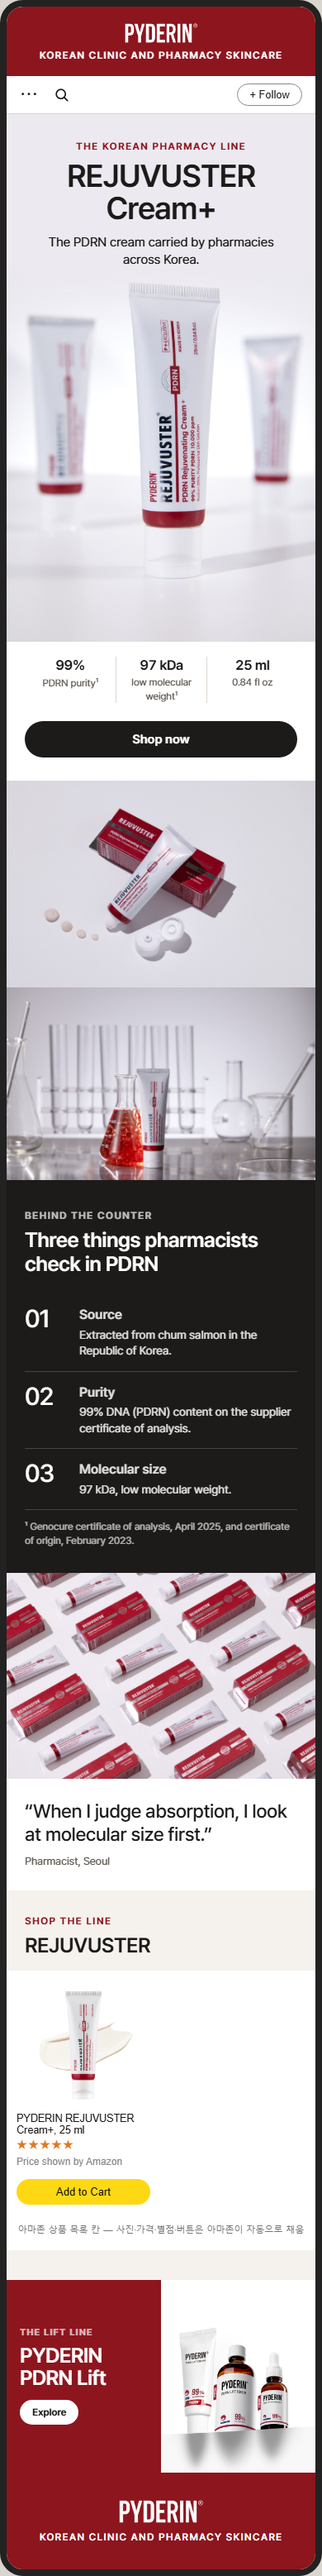
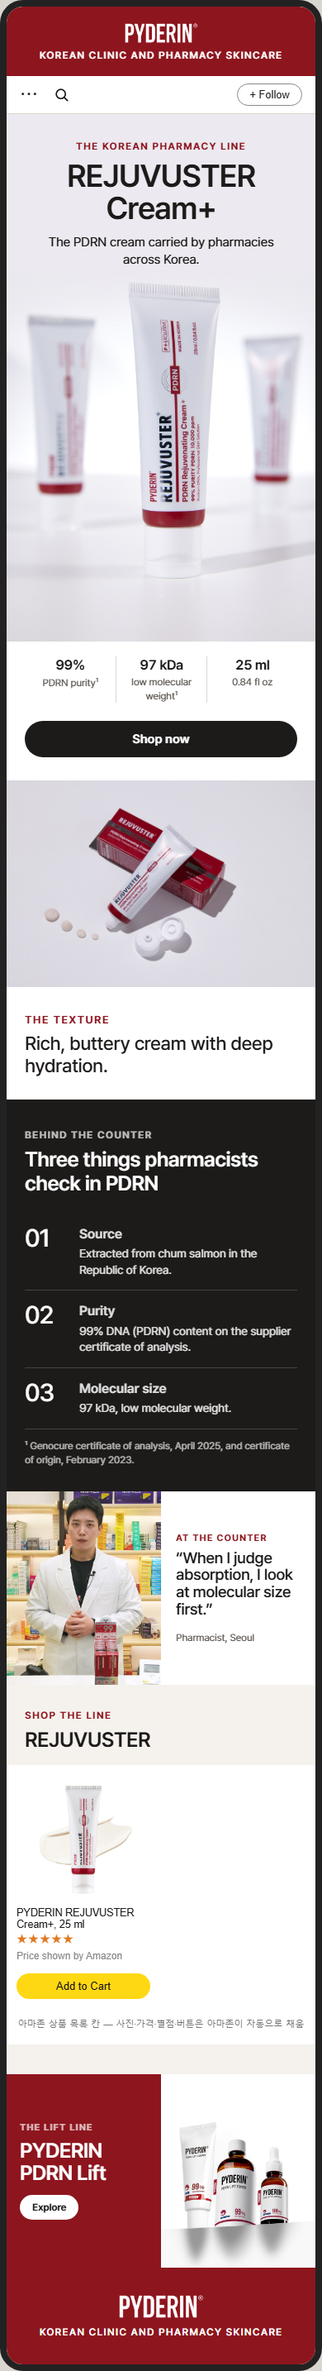
카테고리 페이지: 뜻이 맞는 칸에만 사진, 끼워 넣은 사진 제거

diff --git a/review/index.html b/review/index.html
@@ -108,42 +108,41 @@
 <tr><td>12-6</td><td class="pos">02 앰플</td><td class="ko">집중 단계. 가벼운 PDRN 세럼.</td><td class="en">The concentrated step. A lightweight PDRN serum.</td><td class="src">미국 상품 페이지</td><td class="ask">앰플 설명으로 맞는지 (&quot;가벼운&quot; 제형 표현 포함)</td><td class="box"></td><td class="box"></td></tr>
 <tr><td>12-7</td><td class="pos">03 크림</td><td class="ko">대표 탄력 크림.</td><td class="en">The signature firming cream.</td><td class="src">사장님 지정: 메인 SKU</td><td class="ask"></td><td class="box"></td><td class="box"></td></tr>
 <tr><td>12-8</td><td class="pos">주 1회 마스크</td><td class="ko">주 1회 시트 마스크. 한 상자 5매.</td><td class="en">The weekly sheet mask. Five sheets per box.</td><td class="src">미국 상품 페이지(43ml × 5)</td><td class="ask">사용 주기 주 1회가 맞는지</td><td class="box"></td><td class="box"></td></tr>
-<tr><td>12-9</td><td class="pos">큰 숫자 칸</td><td class="ko">리프트 크림 속 · 20,000ppm · PDRN 리프트 크림 한 개마다 들어 있는 연어 DNA PDRN.</td><td class="en">INSIDE THE LIFT CREAM · 20,000 ppm of salmon DNA PDRN in every tube of PDRN Lift Cream.</td><td class="src">미국 상품 페이지 제목</td><td class="ask">2-4번과 같은 확인</td><td class="box"></td><td class="box"></td></tr>
-<tr><td>12-10</td><td class="pos">제형 사진 칸</td><td class="ko">제형 · PDRN 리프트 토너, 병에서 덜어낸 그대로.</td><td class="en">THE TEXTURE · PDRN Lift Toner, out of the bottle.</td><td class="src">NAS 디자인팀 토너 제형 촬영본</td><td class="ask">사진이 현재 판매 중인 토너의 실제 제형이 맞는지</td><td class="box"></td><td class="box"></td></tr>
-<tr><td>12-11</td><td class="pos">모델 사진 칸</td><td class="ko">루틴 · 네 단계. 하나의 루틴.</td><td class="en">THE ROUTINE · Four steps. One routine.</td><td class="src">NAS 디자인팀 이미지소스(구매한 스톡 사진)</td><td class="ask">스톡 사진의 사용 범위에 미국 아마존이 들어가는지</td><td class="box"></td><td class="box"></td></tr>
-<tr><td>12-12</td><td class="pos">상품 목록 제목</td><td class="ko">라인 상품 · PDRN 리프트</td><td class="en">SHOP THE LINE · PDRN Lift</td><td class="src"></td><td class="ask"></td><td class="box"></td><td class="box"></td></tr>
-<tr><td>12-13</td><td class="pos">아래 이동 칸</td><td class="ko">한국 약국 라인 · 리쥬부스터 크림+ · 리쥬부스터 보기</td><td class="en">THE KOREAN PHARMACY LINE · REJUVUSTER Cream+ · Explore REJUVUSTER</td><td class="src">코스알엑스 라인 페이지 방식</td><td class="ask"></td><td class="box"></td><td class="box"></td></tr>
+<tr><td>12-9</td><td class="pos">큰 숫자 칸</td><td class="ko">대표 제품 PDRN 리프트 크림 · 20,000ppm · 한 개마다 들어 있는 연어 DNA PDRN.</td><td class="en">THE SIGNATURE: PDRN LIFT CREAM · 20,000 ppm of salmon DNA PDRN in every tube.</td><td class="src">미국 상품 페이지 제목</td><td class="ask">2-4번과 같은 확인</td><td class="box"></td><td class="box"></td></tr>
+<tr><td>12-10</td><td class="pos">제형 사진 칸</td><td class="ko">PDRN 리프트 토너 · 물처럼 마무리되는 젤 제형.</td><td class="en">PDRN LIFT TONER · Gel formula with a watery finish.</td><td class="src">미국 토너 상품 페이지 4번째 이미지의 문구와 사진</td><td class="ask"></td><td class="box"></td><td class="box"></td></tr>
+<tr><td>12-11</td><td class="pos">상품 목록 제목</td><td class="ko">라인 상품 · PDRN 리프트</td><td class="en">SHOP THE LINE · PDRN Lift</td><td class="src"></td><td class="ask"></td><td class="box"></td><td class="box"></td></tr>
+<tr><td>12-12</td><td class="pos">아래 이동 칸</td><td class="ko">한국 약국 라인 · 리쥬부스터 크림+ · 리쥬부스터 보기</td><td class="en">THE KOREAN PHARMACY LINE · REJUVUSTER Cream+ · Explore REJUVUSTER</td><td class="src">코스알엑스 라인 페이지 방식</td><td class="ask"></td><td class="box"></td><td class="box"></td></tr>
 </table></div></div>
 <div class="blk"><div><h2>13. REJUVUSTER 페이지 (약국 라인)</h2><img src="sec/s13.png" alt=""></div><div class="scroll"><table><tr><th>번호</th><th>위치</th><th>국문 원문</th><th>영문 (가안)</th><th>근거·출처</th><th>확인 요청 사항</th><th>상품기획팀 확인</th><th>해외영업팀 영문 검수</th></tr>
 <tr><td>13-1</td><td class="pos">꼬리표 · 제목</td><td class="ko">한국 약국 라인 · 리쥬부스터 크림+</td><td class="en">THE KOREAN PHARMACY LINE · REJUVUSTER Cream+</td><td class="src">사장님 확인(11/11): 리쥬부스터는 약국 전용</td><td class="ask">미국 약국 판매로 오해되지 않게 &#x27;Korean&#x27;을 붙였습니다. 표현이 괜찮은지</td><td class="box"></td><td class="box"></td></tr>
 <tr><td>13-2</td><td class="pos">한 문장</td><td class="ko">한국 전역의 약국에서 취급하는 PDRN 크림.</td><td class="en">The PDRN cream carried by pharmacies across Korea.</td><td class="src">데일리팜 2026-07-22</td><td class="ask">&quot;전역&quot; 표현이 맞는지</td><td class="box"></td><td class="box"></td></tr>
 <tr><td>13-3</td><td class="pos">수치 3개</td><td class="ko">PDRN 순도 99% · 97kDa 저분자 · 25ml</td><td class="en">99% PDRN purity · 97 kDa low molecular weight · 25 ml / 0.84 fl oz</td><td class="src">제노큐어 시험성적서, 미국 상품 페이지</td><td class="ask">리쥬부스터 크림+ 원료에도 99%·97kDa가 해당하는지, 용량 표기</td><td class="box"></td><td class="box"></td></tr>
-<tr><td>13-4</td><td class="pos">소제목</td><td class="ko">카운터 뒤에서 · 약사가 PDRN에서 확인하는 세 가지</td><td class="en">BEHIND THE COUNTER · Three things pharmacists check in PDRN</td><td class="src">약사 인터뷰(베리뉴약국·별하약국) 발언</td><td class="ask">약사 발언을 일반화해 써도 되는지</td><td class="box"></td><td class="box"></td></tr>
-<tr><td>13-5</td><td class="pos">01 출처</td><td class="ko">대한민국 연어에서 추출.</td><td class="en">Source — Extracted from chum salmon in the Republic of Korea.</td><td class="src">제노큐어 원산지 증명서</td><td class="ask">리쥬부스터 크림+도 같은 원료를 쓰는지</td><td class="box"></td><td class="box"></td></tr>
-<tr><td>13-6</td><td class="pos">02 순도</td><td class="ko">원료사 시험성적서의 DNA(PDRN) 함량 99%.</td><td class="en">Purity — 99% DNA (PDRN) content on the supplier certificate of analysis.</td><td class="src">제노큐어 시험성적서</td><td class="ask">리쥬부스터 크림+ 원료에도 해당하는지</td><td class="box"></td><td class="box"></td></tr>
-<tr><td>13-7</td><td class="pos">03 분자 크기</td><td class="ko">97kDa 저분자.</td><td class="en">Molecular size — 97 kDa, low molecular weight.</td><td class="src">제노큐어 시험성적서</td><td class="ask">리쥬부스터 크림+ 원료에도 해당하는지</td><td class="box"></td><td class="box"></td></tr>
-<tr><td>13-8</td><td class="pos">각주</td><td class="ko">제노큐어 시험성적서(2025년 4월), 원산지 증명서(2023년 2월)</td><td class="en">Genocure certificate of analysis, April 2025, and certificate of origin, February 2023.</td><td class="src">소개서 4쪽</td><td class="ask"></td><td class="box"></td><td class="box"></td></tr>
-<tr><td>13-9</td><td class="pos">약사 한마디</td><td class="ko">&quot;흡수력을 볼 때 저는 분자 크기를 먼저 봅니다.&quot; — 약사, 서울</td><td class="en">&quot;When I judge absorption, I look at molecular size first.&quot; — Pharmacist, Seoul</td><td class="src">명동K약국 약사 인터뷰(발언 대상은 리쥬부스터)</td><td class="ask">약사 이름 표기 여부, 사용 동의</td><td class="box"></td><td class="box"></td></tr>
-<tr><td>13-10</td><td class="pos">아래 이동 칸</td><td class="ko">리프트 라인 · 피더린 PDRN 리프트 · 피더린 보기</td><td class="en">THE LIFT LINE · PYDERIN PDRN Lift · Explore PYDERIN</td><td class="src"></td><td class="ask"></td><td class="box"></td><td class="box"></td></tr>
+<tr><td>13-4</td><td class="pos">제형 사진 칸</td><td class="ko">제형 · 깊은 보습의 풍부한 버터 같은 크림.</td><td class="en">THE TEXTURE · Rich, buttery cream with deep hydration.</td><td class="src">미국 리쥬부스터 상품 페이지 4번째 이미지의 문구</td><td class="ask"></td><td class="box"></td><td class="box"></td></tr>
+<tr><td>13-5</td><td class="pos">소제목</td><td class="ko">카운터 뒤에서 · 약사가 PDRN에서 확인하는 세 가지</td><td class="en">BEHIND THE COUNTER · Three things pharmacists check in PDRN</td><td class="src">약사 인터뷰(베리뉴약국·별하약국) 발언</td><td class="ask">약사 발언을 일반화해 써도 되는지</td><td class="box"></td><td class="box"></td></tr>
+<tr><td>13-6</td><td class="pos">01 출처</td><td class="ko">대한민국 연어에서 추출.</td><td class="en">Source — Extracted from chum salmon in the Republic of Korea.</td><td class="src">제노큐어 원산지 증명서</td><td class="ask">리쥬부스터 크림+도 같은 원료를 쓰는지</td><td class="box"></td><td class="box"></td></tr>
+<tr><td>13-7</td><td class="pos">02 순도</td><td class="ko">원료사 시험성적서의 DNA(PDRN) 함량 99%.</td><td class="en">Purity — 99% DNA (PDRN) content on the supplier certificate of analysis.</td><td class="src">제노큐어 시험성적서</td><td class="ask">리쥬부스터 크림+ 원료에도 해당하는지</td><td class="box"></td><td class="box"></td></tr>
+<tr><td>13-8</td><td class="pos">03 분자 크기</td><td class="ko">97kDa 저분자.</td><td class="en">Molecular size — 97 kDa, low molecular weight.</td><td class="src">제노큐어 시험성적서</td><td class="ask">리쥬부스터 크림+ 원료에도 해당하는지</td><td class="box"></td><td class="box"></td></tr>
+<tr><td>13-9</td><td class="pos">각주</td><td class="ko">제노큐어 시험성적서(2025년 4월), 원산지 증명서(2023년 2월)</td><td class="en">Genocure certificate of analysis, April 2025, and certificate of origin, February 2023.</td><td class="src">소개서 4쪽</td><td class="ask"></td><td class="box"></td><td class="box"></td></tr>
+<tr><td>13-10</td><td class="pos">약사 한마디</td><td class="ko">&quot;흡수력을 볼 때 저는 분자 크기를 먼저 봅니다.&quot; — 약사, 서울</td><td class="en">&quot;When I judge absorption, I look at molecular size first.&quot; — Pharmacist, Seoul</td><td class="src">명동K약국 약사 인터뷰(발언 대상은 리쥬부스터)</td><td class="ask">약사 이름 표기 여부, 사용 동의</td><td class="box"></td><td class="box"></td></tr>
+<tr><td>13-11</td><td class="pos">아래 이동 칸</td><td class="ko">리프트 라인 · 피더린 PDRN 리프트 · 피더린 보기</td><td class="en">THE LIFT LINE · PYDERIN PDRN Lift · Explore PYDERIN</td><td class="src"></td><td class="ask"></td><td class="box"></td><td class="box"></td></tr>
 </table></div></div>
 <div class="blk"><div><h2>14. ABOUT US 페이지</h2><img src="sec/s14.png" alt=""></div><div class="scroll"><table><tr><th>번호</th><th>위치</th><th>국문 원문</th><th>영문 (가안)</th><th>근거·출처</th><th>확인 요청 사항</th><th>상품기획팀 확인</th><th>해외영업팀 영문 검수</th></tr>
 <tr><td>14-1</td><td class="pos">꼬리표 · 제목</td><td class="ko">브랜드 소개 · 한국 병의원과 약국에서 온 PDRN 스킨케어</td><td class="en">ABOUT US · PDRN skincare from Korea&#x27;s clinics and pharmacies</td><td class="src">소개서 병의원·약국 라인</td><td class="ask"></td><td class="box"></td><td class="box"></td></tr>
 <tr><td>14-2</td><td class="pos">소개 글</td><td class="ko">피더린은 한국의 PDRN 스킨케어 브랜드입니다. PDRN 리프트 라인은 피부과·의원에서 만날 수 있고, 크림은 약국에서도 취급합니다. 리쥬부스터는 약국 라인입니다. 두 라인 모두 같은 서류로 확인된 PDRN을 씁니다.</td><td class="en">PYDERIN is a Korean PDRN skincare brand. The PDRN Lift line is found in skin clinics, and its cream is carried by pharmacies too. REJUVUSTER is the pharmacy line. Both are built on the same documented PDRN.</td><td class="src">소개서, 원료사 서류</td><td class="ask">두 라인이 같은 PDRN 원료를 쓰는지</td><td class="box"></td><td class="box"></td></tr>
 <tr><td>14-3</td><td class="pos">소제목</td><td class="ko">우리의 방식 · 지키는 세 가지</td><td class="en">OUR APPROACH · Three things we hold to</td><td class="src">리쥬올 About 페이지 방식</td><td class="ask"></td><td class="box"></td><td class="box"></td></tr>
-<tr><td>14-4</td><td class="pos">사진</td><td class="ko">(01 쥬넥스 의사 스튜디오 사진 / 02 약국 약사 / 03 리쥬부스터 실험실 연출 사진 / 맨 위 스톡 모델 사진)</td><td class="en">(photos)</td><td class="src">NAS 디자인팀 원본</td><td class="ask">쥬넥스 의사 사진을 이름 없이 써도 되는지, 스톡 사진 사용 범위</td><td class="box"></td><td class="box"></td></tr>
-<tr><td>14-5</td><td class="pos">01</td><td class="ko">병의원에서 씁니다 — PDRN 리프트 라인은 한국 피부과·의원에서 만날 수 있습니다.</td><td class="en">Used in clinics — The PDRN Lift line is found in Korean skin clinics.</td><td class="src">소개서 5쪽</td><td class="ask">2-3번과 같은 확인</td><td class="box"></td><td class="box"></td></tr>
-<tr><td>14-6</td><td class="pos">02</td><td class="ko">약사가 설명합니다 — 피더린은 한국 약국 2,000곳 이상에서 취급합니다.</td><td class="en">Explained by pharmacists — PYDERIN is carried by 2,000+ pharmacies in Korea.</td><td class="src">데일리팜 2026-07-22</td><td class="ask">메인 4번 칸과 같은 표기</td><td class="box"></td><td class="box"></td></tr>
-<tr><td>14-7</td><td class="pos">03</td><td class="ko">서류를 공개합니다 — 출처, 순도, 분자량은 원료사 증명서에 따릅니다.</td><td class="en">Documents on the table — Source, purity and molecular weight come from supplier certificates.</td><td class="src">제노큐어 서류</td><td class="ask"></td><td class="box"></td><td class="box"></td></tr>
-<tr><td>14-8</td><td class="pos">소제목</td><td class="ko">그들의 말 · 의사와 약사가 말하는 피더린</td><td class="en">IN THEIR WORDS · Doctors and pharmacists on PYDERIN</td><td class="src">메디큐브 기기 페이지의 전문가 3명 방식</td><td class="ask">두 분 모두 사용 동의가 필요. 동의가 없는 분은 뺍니다</td><td class="box"></td><td class="box"></td></tr>
-<tr><td>14-9</td><td class="pos">한마디 1</td><td class="ko">&quot;피더린은 저희 철학과 가장 잘 맞는 파트너라고 생각합니다.&quot; — 박상욱 대표원장, 서래셀클리닉, 서울</td><td class="en">&quot;PYDERIN is the perfect partner for our philosophy.&quot; — Dr. Sangwook Park, Medical Director, Seorae Cell Clinic, Seoul</td><td class="src">원장 인터뷰 원본 영상</td><td class="ask">4-3, 4-4번과 같은 확인</td><td class="box"></td><td class="box"></td></tr>
-<tr><td>14-10</td><td class="pos">한마디 2</td><td class="ko">&quot;다 같은 PDRN이 아닙니다.&quot; — 약사, 서울</td><td class="en">&quot;Not all PDRN is the same.&quot; — Pharmacist, Seoul</td><td class="src">별하약국 약사 인터뷰</td><td class="ask">약사 이름 표기 여부, 사용 동의</td><td class="box"></td><td class="box"></td></tr>
-<tr><td>14-11</td><td class="pos">각주</td><td class="ko">의사와 약사가 제품 개발 과정에 참여했습니다(데일리팜 2026년 7월 23일 보도).</td><td class="en">Doctors and pharmacists took part in product development, as reported by Dailypharm, July 23, 2026.</td><td class="src">데일리팜 2026-07-23 기사</td><td class="ask">참여 범위(어떤 제품, 어떤 역할)와 이 표현을 써도 되는지</td><td class="box"></td><td class="box"></td></tr>
-<tr><td>14-12</td><td class="pos">소제목</td><td class="ko">PDRN 묻고 답하기 · 자주 듣는 질문</td><td class="en">PDRN, ANSWERED · Questions we hear most</td><td class="src">리쥬란 PDRN 페이지의 묻고 답하기 방식</td><td class="ask"></td><td class="box"></td><td class="box"></td></tr>
-<tr><td>14-13</td><td class="pos">질문 1</td><td class="ko">PDRN이 무엇인가요? — PDRN(폴리데옥시리보뉴클레오타이드)은 DNA에서 얻는 스킨케어 성분입니다. 피더린의 PDRN은 대한민국 연어에서 추출합니다.</td><td class="en">What is PDRN? — PDRN (polydeoxyribonucleotide) is a DNA-derived skincare ingredient. Ours is extracted from chum salmon in the Republic of Korea.</td><td class="src">제노큐어 원산지 증명서</td><td class="ask">성분 설명 표현이 맞는지</td><td class="box"></td><td class="box"></td></tr>
-<tr><td>14-14</td><td class="pos">질문 2</td><td class="ko">99%와 97kDa는 무슨 뜻인가요? — 원료사 시험성적서에 적힌 우리 PDRN의 순도와 분자량입니다.</td><td class="en">What do 99% and 97 kDa mean? — They are the purity and the molecular weight of our PDRN, as stated on the supplier certificate of analysis.</td><td class="src">제노큐어 시험성적서</td><td class="ask">7-2, 7-3번과 같은 확인</td><td class="box"></td><td class="box"></td></tr>
-<tr><td>14-15</td><td class="pos">질문 3</td><td class="ko">리프트 크림에는 PDRN이 얼마나 들어 있나요? — 연어 DNA PDRN 20,000ppm.</td><td class="en">How much PDRN is in the Lift Cream? — 20,000 ppm of salmon DNA PDRN.</td><td class="src">미국 상품 페이지 제목</td><td class="ask">2-4번과 같은 확인. 다른 브랜드와 비교하지 않고 숫자만 적었습니다</td><td class="box"></td><td class="box"></td></tr>
-<tr><td>14-16</td><td class="pos">질문 4</td><td class="ko">두 라인은 무엇이 다른가요? — PDRN 리프트는 한국 피부과·의원에서 만나는 네 단계 라인이고, 크림은 약국에서도 취급합니다. 리쥬부스터 크림+는 한국의 약국 라인입니다.</td><td class="en">What is the difference between the two lines? — PDRN Lift is the four-step line found in Korean skin clinics. Its cream is carried by pharmacies too. REJUVUSTER Cream+ is the pharmacy line in Korea.</td><td class="src">소개서</td><td class="ask">12월 추가 리스팅 뒤 바뀔 내용인지</td><td class="box"></td><td class="box"></td></tr>
-<tr><td>14-17</td><td class="pos">아래 이동 칸</td><td class="ko">리프트 라인 피더린 / 한국 약국 라인 리쥬부스터 · 보기</td><td class="en">THE LIFT LINE PYDERIN / THE KOREAN PHARMACY LINE REJUVUSTER · Explore</td><td class="src"></td><td class="ask"></td><td class="box"></td><td class="box"></td></tr>
+<tr><td>14-4</td><td class="pos">01</td><td class="ko">병의원에서 씁니다 — PDRN 리프트 라인은 한국 피부과·의원에서 만날 수 있습니다.</td><td class="en">Used in clinics — The PDRN Lift line is found in Korean skin clinics.</td><td class="src">소개서 5쪽</td><td class="ask">2-3번과 같은 확인</td><td class="box"></td><td class="box"></td></tr>
+<tr><td>14-5</td><td class="pos">02</td><td class="ko">약사가 설명합니다 — 피더린은 한국 약국 2,000곳 이상에서 취급합니다.</td><td class="en">Explained by pharmacists — PYDERIN is carried by 2,000+ pharmacies in Korea.</td><td class="src">데일리팜 2026-07-22</td><td class="ask">메인 4번 칸과 같은 표기</td><td class="box"></td><td class="box"></td></tr>
+<tr><td>14-6</td><td class="pos">03</td><td class="ko">서류를 공개합니다 — 출처, 순도, 분자량은 원료사 증명서에 따릅니다.</td><td class="en">Documents on the table — Source, purity and molecular weight come from supplier certificates.</td><td class="src">제노큐어 서류</td><td class="ask"></td><td class="box"></td><td class="box"></td></tr>
+<tr><td>14-7</td><td class="pos">소제목</td><td class="ko">그들의 말 · 의사와 약사가 말하는 피더린</td><td class="en">IN THEIR WORDS · Doctors and pharmacists on PYDERIN</td><td class="src">메디큐브 기기 페이지의 전문가 3명 방식</td><td class="ask">두 분 모두 사용 동의가 필요. 동의가 없는 분은 뺍니다</td><td class="box"></td><td class="box"></td></tr>
+<tr><td>14-8</td><td class="pos">한마디 1</td><td class="ko">&quot;피더린은 저희 철학과 가장 잘 맞는 파트너라고 생각합니다.&quot; — 박상욱 대표원장, 서래셀클리닉, 서울</td><td class="en">&quot;PYDERIN is the perfect partner for our philosophy.&quot; — Dr. Sangwook Park, Medical Director, Seorae Cell Clinic, Seoul</td><td class="src">원장 인터뷰 원본 영상</td><td class="ask">4-3, 4-4번과 같은 확인</td><td class="box"></td><td class="box"></td></tr>
+<tr><td>14-9</td><td class="pos">한마디 2</td><td class="ko">&quot;다 같은 PDRN이 아닙니다.&quot; — 약사, 서울</td><td class="en">&quot;Not all PDRN is the same.&quot; — Pharmacist, Seoul</td><td class="src">별하약국 약사 인터뷰</td><td class="ask">약사 이름 표기 여부, 사용 동의</td><td class="box"></td><td class="box"></td></tr>
+<tr><td>14-10</td><td class="pos">각주</td><td class="ko">의사와 약사가 제품 개발 과정에 참여했습니다(데일리팜 2026년 7월 23일 보도).</td><td class="en">Doctors and pharmacists took part in product development, as reported by Dailypharm, July 23, 2026.</td><td class="src">데일리팜 2026-07-23 기사</td><td class="ask">참여 범위(어떤 제품, 어떤 역할)와 이 표현을 써도 되는지</td><td class="box"></td><td class="box"></td></tr>
+<tr><td>14-11</td><td class="pos">소제목</td><td class="ko">PDRN 묻고 답하기 · 자주 듣는 질문</td><td class="en">PDRN, ANSWERED · Questions we hear most</td><td class="src">리쥬란 PDRN 페이지의 묻고 답하기 방식</td><td class="ask"></td><td class="box"></td><td class="box"></td></tr>
+<tr><td>14-12</td><td class="pos">질문 1</td><td class="ko">PDRN이 무엇인가요? — PDRN(폴리데옥시리보뉴클레오타이드)은 DNA에서 얻는 스킨케어 성분입니다. 피더린의 PDRN은 대한민국 연어에서 추출합니다.</td><td class="en">What is PDRN? — PDRN (polydeoxyribonucleotide) is a DNA-derived skincare ingredient. Ours is extracted from chum salmon in the Republic of Korea.</td><td class="src">제노큐어 원산지 증명서</td><td class="ask">성분 설명 표현이 맞는지</td><td class="box"></td><td class="box"></td></tr>
+<tr><td>14-13</td><td class="pos">질문 2</td><td class="ko">99%와 97kDa는 무슨 뜻인가요? — 원료사 시험성적서에 적힌 우리 PDRN의 순도와 분자량입니다.</td><td class="en">What do 99% and 97 kDa mean? — They are the purity and the molecular weight of our PDRN, as stated on the supplier certificate of analysis.</td><td class="src">제노큐어 시험성적서</td><td class="ask">7-2, 7-3번과 같은 확인</td><td class="box"></td><td class="box"></td></tr>
+<tr><td>14-14</td><td class="pos">질문 3</td><td class="ko">리프트 크림에는 PDRN이 얼마나 들어 있나요? — 연어 DNA PDRN 20,000ppm.</td><td class="en">How much PDRN is in the Lift Cream? — 20,000 ppm of salmon DNA PDRN.</td><td class="src">미국 상품 페이지 제목</td><td class="ask">2-4번과 같은 확인. 다른 브랜드와 비교하지 않고 숫자만 적었습니다</td><td class="box"></td><td class="box"></td></tr>
+<tr><td>14-15</td><td class="pos">질문 4</td><td class="ko">두 라인은 무엇이 다른가요? — PDRN 리프트는 한국 피부과·의원에서 만나는 네 단계 라인이고, 크림은 약국에서도 취급합니다. 리쥬부스터 크림+는 한국의 약국 라인입니다.</td><td class="en">What is the difference between the two lines? — PDRN Lift is the four-step line found in Korean skin clinics. Its cream is carried by pharmacies too. REJUVUSTER Cream+ is the pharmacy line in Korea.</td><td class="src">소개서</td><td class="ask">12월 추가 리스팅 뒤 바뀔 내용인지</td><td class="box"></td><td class="box"></td></tr>
+<tr><td>14-16</td><td class="pos">아래 이동 칸</td><td class="ko">리프트 라인 피더린 / 한국 약국 라인 리쥬부스터 · 보기</td><td class="en">THE LIFT LINE PYDERIN / THE KOREAN PHARMACY LINE REJUVUSTER · Explore</td><td class="src"></td><td class="ask"></td><td class="box"></td><td class="box"></td></tr>
 </table></div></div>
 <div class="blk"><div><h2>영상 자막 (4번 칸 병원·약국 영상, 39초)</h2><img src="sec/video.jpg" alt=""></div><div class="scroll"><table><tr><th>번호</th><th>말하는 사람</th><th>국문 원문 (실제 발언)</th><th>영문 자막 (가안)</th><th>확인 요청 사항</th><th>상품기획팀 확인</th><th>해외영업팀 영문 검수</th></tr>
 <tr><td>V-1</td><td class="pos">원장</td><td class="ko">서울 서래셀 클리닉 대표원장 박상욱입니다.</td><td class="en">I&#x27;m Dr. Sangwook Park, Medical Director of Seorae Cell Clinic.</td><td class="ask"></td><td class="box"></td><td class="box"></td></tr>

diff --git a/index.html b/index.html
@@ -291,7 +291,7 @@
   .xt .eyebrow { opacity: .7; font-size: 11px; }
   .xt b { display: block; font-size: 25px; line-height: 1.06; font-weight: 600; letter-spacing: -.025em; margin: 8px 0 14px; }
   .xt u { display: inline-block; text-decoration: none; font-size: 12px; font-weight: 600; background: #fff; color: var(--ink); border-radius: 999px; padding: 8px 15px; }
-  .xt + .sec .end, .tiles + .sec .end { margin-top: 0; }
+  .xt + .sec .end, .pair + .sec .end { margin-top: 0; }
   .lead { padding: 26px 22px 0; font-size: 17px; line-height: 1.45; letter-spacing: -.01em; margin: 0; }
   /* 지그재그: 사진과 글이 번갈아 */
   .zz { display: grid; grid-template-columns: 1fr 1fr; background: #fff; }
@@ -322,6 +322,25 @@
   .tiles .eyebrow { font-size: 10.5px; color: var(--red); }
   .tiles b { display: block; font-size: 21px; font-weight: 600; letter-spacing: -.02em; margin: 6px 0 0; }
   .tiles u { position: absolute; left: 14px; bottom: 14px; text-decoration: none; font-size: 12px; font-weight: 600; background: var(--ink); color: #fff; border-radius: 999px; padding: 7px 15px; }
+  /* v4 */
+  .s4 { display: grid; grid-template-columns: 1fr 1fr; border-top: 1px solid var(--ink); margin: 0 22px; }
+  .s4 div { padding: 14px 12px 16px 0; border-bottom: 1px solid var(--line); }
+  .s4 div:nth-child(even) { padding-left: 14px; border-left: 1px solid var(--line); }
+  .s4 b { display: block; font-size: 12px; font-weight: 600; color: var(--red); font-variant-numeric: tabular-nums; }
+  .s4 strong { display: block; font-size: 16px; font-weight: 600; letter-spacing: -.015em; line-height: 1.2; margin: 2px 0 4px; }
+  .s4 span { font-size: 13px; line-height: 1.35; color: var(--mute); }
+  .feat { display: grid; grid-template-columns: 1fr 1fr; background: #fff; }
+  .feat img { width: 100%; height: 100%; aspect-ratio: 4/5; object-fit: cover; }
+  .feat div { padding: 20px 18px; align-self: center; }
+  .feat .eyebrow { color: var(--red); font-size: 11px; }
+  .feat b { display: block; font-size: 22px; line-height: 1.1; font-weight: 600; letter-spacing: -.02em; margin: 8px 0 12px; }
+  .feat u { display: inline-block; text-decoration: none; font-size: 12px; font-weight: 600; color: #fff; background: var(--ink); border-radius: 999px; padding: 7px 15px; }
+  .who { display: grid; grid-template-columns: 1fr 1fr; gap: 2px; background: var(--ink); color: #fff; }
+  .who img { width: 100%; aspect-ratio: 4/5; object-fit: cover; }
+  .who p { margin: 0; padding: 14px 14px 22px; }
+  .who q { display: block; quotes: "“" "”"; font-size: 16px; line-height: 1.25; font-weight: 500; letter-spacing: -.015em; }
+  .who span { display: block; font-size: 11.5px; line-height: 1.35; color: #ffffffa6; margin-top: 8px; }
+  .who + .note { background: var(--ink); color: #ffffffa6; padding: 0 22px 22px; }
 </style>
 </head>
 <body>
@@ -379,18 +398,15 @@
   <div class="sec"><div class="end"><img src="img/logo-white.png" alt="PYDERIN" style="height:30px;margin:auto"><small>Korean clinic and pharmacy skincare</small></div></div></div><div class="page" id="pyderin">
   <div class="sec full"><img src="img/v3/lift-blocks.jpg" alt="" style="aspect-ratio:390/610;object-position:50% 100%">
     <div class="ov"><span class="eyebrow">The Lift line</span><h2>PYDERIN<br>PDRN Lift</h2><p>The PDRN line found in Korean skin clinics.</p></div></div>
+  <div class="sec num"><img src="img/v3/hand-cream.jpg" alt="" style="object-position:100% 40%"><div><span class="eyebrow" style="opacity:.8;margin-bottom:10px">The signature: PDRN Lift Cream</span><b>20,000 ppm</b>of salmon DNA PDRN in every tube.</div></div>
+  <div class="sec feat"><img src="img/v3/toner-pour.jpg" alt="" style="aspect-ratio:1"><div><span class="eyebrow">PDRN Lift Toner</span><b>Gel formula with a watery finish.</b><u>Shop now</u></div></div>
   <div class="sec"><div class="title"><span class="eyebrow">The four steps</span><h3>What each one does</h3></div>
-    <div class="mos">
-      <div><img src="img/v3/hand-toner.jpg" alt="" style="object-position:92% 20%"><p><b>01</b><strong>PDRN Lift Toner</strong><span>The first layer. Hydrates and preps skin for the steps that follow.</span><u>Shop now</u></p></div>
-      <div><img class="ct" src="img/c-ampoule.png" alt=""><p><b>02</b><strong>PDRN Lift Fit Ampoule</strong><span>The concentrated step. A lightweight PDRN serum.</span><u>Shop now</u></p></div>
-      <div><img src="img/v3/cream-tip.jpg" alt="" style="object-position:50% 30%"><p><b>03</b><strong>PDRN Lift Cream</strong><span>The signature firming cream.</span><u>Shop now</u></p></div>
-      <div><img class="ct" src="img/mask.jpg" alt="" style="object-fit:contain"><p><b>Weekly</b><strong>PDRN Lift Facial Mask</strong><span>The weekly sheet mask. Five sheets per box.</span><u>Shop now</u></p></div>
+    <div class="s4">
+      <div><b>01</b><strong>PDRN Lift Toner</strong><span>The first layer. Hydrates and preps skin for the steps that follow.</span></div>
+      <div><b>02</b><strong>PDRN Lift Fit Ampoule</strong><span>The concentrated step. A lightweight PDRN serum.</span></div>
+      <div><b>03</b><strong>PDRN Lift Cream</strong><span>The signature firming cream.</span></div>
+      <div><b>Weekly</b><strong>PDRN Lift Facial Mask</strong><span>The weekly sheet mask. Five sheets per box.</span></div>
     </div></div>
-  <div class="sec num"><img src="img/v3/hand-cream.jpg" alt="" style="object-position:100% 40%"><div><span class="eyebrow" style="opacity:.8;margin-bottom:10px">Inside the Lift Cream</span><b>20,000 ppm</b>of salmon DNA PDRN in every tube of PDRN Lift Cream.</div></div>
-  <div class="sec full"><img src="img/v3/toner-swatch2.jpg" alt="" style="aspect-ratio:1;object-position:50% 70%">
-    <div class="ov"><span class="eyebrow">The texture</span><h3>PDRN Lift Toner,<br>out of the bottle.</h3></div></div>
-  <div class="sec full lt"><img src="img/v3/model2.jpg" alt="" style="aspect-ratio:4/3;object-position:60% 30%">
-    <div class="ov b"><span class="eyebrow">The routine</span><h3>Four steps.<br>One routine.</h3></div></div>
   <div class="sec"><div class="title"><span class="eyebrow">Shop the line</span><h3>PDRN Lift</h3></div></div>
   <div class="sec az"><div class="grid"><div class="card"><img class="pk" src="img/m-cream.jpg" alt="">PYDERIN PDRN Lift Cream, 30 ml<br><span class="stars">★★★★★</span><span class="price">Price shown by Amazon</span><span class="buy">Add to Cart</span></div><div class="card"><img class="pk" src="img/m-toner.jpg" alt="">PYDERIN PDRN Lift Toner, 100 ml<br><span class="stars">★★★★★</span><span class="price">Price shown by Amazon</span><span class="buy">Add to Cart</span></div><div class="card"><img class="pk" src="img/ampoule.jpg" alt="">PYDERIN PDRN Lift Fit Ampoule, 30 ml<br><span class="stars">★★★★★</span><span class="price">Price shown by Amazon</span><span class="buy">Add to Cart</span></div><div class="card"><img class="pk" src="img/mask.jpg" alt="">PYDERIN PDRN Lift Facial Mask, 5 sheets<br><span class="stars">★★★★★</span><span class="price">Price shown by Amazon</span><span class="buy">Add to Cart</span></div></div><div class="aznote">아마존 상품 목록 칸 — 사진·가격·별점·버튼은 아마존이 자동으로 채움</div></div>
   <a class="xt" href="#rejuvuster"><img src="img/v3/rj-smear.jpg" alt=""><div><span class="eyebrow">The Korean pharmacy line</span><b>REJUVUSTER<br>Cream+</b><u>Explore</u></div></a>
@@ -399,36 +415,33 @@
     <img src="img/v3/rj-three.jpg" alt="" style="aspect-ratio:390/470;object-position:50% 78%;-webkit-mask-image:linear-gradient(#0000,#000 16%);mask-image:linear-gradient(#0000,#000 16%)"></div>
   <div class="sec" style="background:#fff;padding-bottom:6px"><div class="f3"><div><b>99%</b>PDRN purity<sup>1</sup></div><div><b>97 kDa</b>low molecular weight<sup>1</sup></div><div><b>25 ml</b>0.84 fl oz</div></div>
     <span class="cta" style="margin-top:0">Shop now</span><div style="height:22px"></div></div>
-  <div class="sec"><img src="img/v3/rj-drops.jpg" alt="" style="width:100%;aspect-ratio:3/2;object-fit:cover"></div>
-  <div class="sec dark"><img src="img/v3/rj-lab-wide.jpg" alt="" style="width:100%;aspect-ratio:16/10;object-fit:cover">
-    <div class="title"><span class="eyebrow">Behind the counter</span><h3>Three things pharmacists check in PDRN</h3></div>
+  <div class="sec"><img src="img/v3/rj-drops.jpg" alt="" style="width:100%;aspect-ratio:3/2;object-fit:cover">
+    <div class="pq" style="padding:22px 22px 26px"><span class="eyebrow" style="color:var(--red);margin-bottom:8px">The texture</span><q style="quotes:none">Rich, buttery cream with deep hydration.</q></div></div>
+  <div class="sec dark"><div class="title"><span class="eyebrow">Behind the counter</span><h3>Three things pharmacists check in PDRN</h3></div>
     <div class="rows">
       <div><b>01</b><span><strong>Source</strong>Extracted from chum salmon in the Republic of Korea.</span></div>
       <div><b>02</b><span><strong>Purity</strong>99% DNA (PDRN) content on the supplier certificate of analysis.</span></div>
       <div><b>03</b><span><strong>Molecular size</strong>97 kDa, low molecular weight.</span></div>
     </div>
     <div class="note"><sup>1</sup> Genocure certificate of analysis, April 2025, and certificate of origin, February 2023.</div></div>
-  <div class="sec"><img src="img/v3/rj-pattern.jpg" alt="" style="width:100%;aspect-ratio:3/2;object-fit:cover">
-    <div class="pq"><q>When I judge absorption, I look at molecular size first.</q><span>Pharmacist, Seoul</span></div></div>
+  <div class="sec feat"><img src="img/pick/p11.jpg" alt="" style="object-position:50% 15%"><div><span class="eyebrow">At the counter</span><b style="font-size:19px;font-weight:500">“When I judge absorption, I look at molecular size first.”</b><span style="font-size:12px;color:var(--mute)">Pharmacist, Seoul</span></div></div>
   <div class="sec"><div class="title" style="padding-top:30px"><span class="eyebrow">Shop the line</span><h3>REJUVUSTER</h3></div></div>
   <div class="sec az"><div class="grid"><div class="card"><img class="pk" src="img/m-rejuvuster.jpg" alt="">PYDERIN REJUVUSTER Cream+, 25 ml<br><span class="stars">★★★★★</span><span class="price">Price shown by Amazon</span><span class="buy">Add to Cart</span></div></div><div class="aznote">아마존 상품 목록 칸 — 사진·가격·별점·버튼은 아마존이 자동으로 채움</div></div>
   <a class="xt" href="#pyderin" style="background:var(--red)"><div><span class="eyebrow">The Lift line</span><b>PYDERIN<br>PDRN Lift</b><u>Explore</u></div><img src="img/v3/lift-trio.jpg" alt="" style="object-position:55% 60%"></a>
   <div class="sec"><div class="end"><img src="img/logo-white.png" alt="PYDERIN" style="height:30px;margin:auto"><small>Korean clinic and pharmacy skincare</small></div></div></div><div class="page" id="about">
-  <div class="sec full lt"><img src="img/v3/model.jpg" alt="" style="aspect-ratio:390/430;object-position:62% 30%">
-    <div class="ov b"><span class="eyebrow">About us</span><h2 style="font-size:32px;margin-bottom:0">PDRN skincare from Korea's clinics and pharmacies</h2></div></div>
+  <div class="sec"><div class="band" style="text-align:left;padding:34px 22px 30px"><span class="eyebrow">About us</span><h2 style="font-size:33px">PDRN skincare from Korea's clinics and pharmacies</h2></div>
+    <div class="who">
+      <div><img src="img/dr-seorae.jpg" alt="" style="object-position:50% 40%"><p><q>PYDERIN is the perfect partner for our philosophy.</q><span>Dr. Sangwook Park, Medical Director, Seorae Cell Clinic, Seoul</span></p></div>
+      <div><img src="img/ph-byul.jpg" alt=""><p><q>Not all PDRN is the same.</q><span>Pharmacist, Seoul</span></p></div>
+    </div><div class="note">Doctors and pharmacists took part in product development, as reported by Dailypharm, July 23, 2026.</div></div>
   <div class="sec"><p class="lead">PYDERIN is a Korean PDRN skincare brand. The PDRN Lift line is found in skin clinics, and its cream is carried by pharmacies too. REJUVUSTER is the pharmacy line. Both are built on the same documented PDRN.</p></div>
   <div class="sec"><div class="title"><span class="eyebrow">Our approach</span><h3>Three things we hold to</h3></div>
-    <div class="zz"><img class="dr" src="img/dr2.png" alt=""><div><b>01</b><strong>Used in clinics</strong>The PDRN Lift line is found in Korean skin clinics.</div></div>
-    <div class="zz r"><img src="img/pick/p11.jpg" alt="" style="object-position:50% 20%"><div><b>02</b><strong>Explained by pharmacists</strong>PYDERIN is carried by 2,000+ pharmacies in Korea.<sup>1</sup></div></div>
-    <div class="zz"><img src="img/v3/rj-tubes.jpg" alt=""><div><b>03</b><strong>Documents on the table</strong>Source, purity and molecular weight come from supplier certificates.</div></div></div>
-  <div class="sec dark" style="margin-top:36px"><div class="title"><span class="eyebrow">In their words</span><h3>Doctors and pharmacists on PYDERIN</h3></div>
-    <div class="ex">
-      <div><img src="img/pick/c1.jpg" alt=""><p style="margin:0"><q>PYDERIN is the perfect partner for our philosophy.</q><span>Dr. Sangwook Park, Medical Director, Seorae Cell Clinic, Seoul</span></p></div>
-      <div><img src="img/ph-byul.jpg" alt=""><p style="margin:0"><q>Not all PDRN is the same.</q><span>Pharmacist, Seoul</span></p></div>
-    </div>
-    <div class="note" style="padding-top:16px">Doctors and pharmacists took part in product development, as reported by Dailypharm, July 23, 2026.</div></div>
-  <div class="sec"><img src="img/v3/cell.jpg" alt="" style="width:100%;aspect-ratio:3/2;object-fit:cover;object-position:50% 52%">
-    <div class="title" style="padding-top:26px"><span class="eyebrow">PDRN, answered</span><h3>Questions we hear most</h3></div>
+    <div class="rows3">
+      <div><b>01</b><span><strong>Used in clinics</strong>The PDRN Lift line is found in Korean skin clinics.</span></div>
+      <div><b>02</b><span><strong>Explained by pharmacists</strong>PYDERIN is carried by 2,000+ pharmacies in Korea.<sup>1</sup></span></div>
+      <div><b>03</b><span><strong>Documents on the table</strong>Source, purity and molecular weight come from supplier certificates.</span></div>
+    </div></div>
+  <div class="sec white" style="margin-top:36px;padding-bottom:30px"><div class="title"><span class="eyebrow">PDRN, answered</span><h3>Questions we hear most</h3></div>
     <div class="qa">
       <div><b>What is PDRN?</b><span>PDRN (polydeoxyribonucleotide) is a DNA-derived skincare ingredient. Ours is extracted from chum salmon in the Republic of Korea.<sup>3</sup></span></div>
       <div><b>What do 99% and 97 kDa mean?</b><span>They are the purity and the molecular weight of our PDRN, as stated on the supplier certificate of analysis.<sup>2</sup></span></div>
@@ -436,7 +449,7 @@
       <div><b>What is the difference between the two lines?</b><span>PDRN Lift is the four-step line found in Korean skin clinics. Its cream is carried by pharmacies too. REJUVUSTER Cream+ is the pharmacy line in Korea.</span></div>
     </div>
     <div class="note"><sup>1</sup> Company figure reported by Dailypharm, July 22, 2026. <sup>2</sup> Genocure certificate of analysis, Derbiome PDRN, April 2025. <sup>3</sup> Genocure certificate of origin, February 2023.</div></div>
-  <div class="tiles"><a href="#pyderin"><img src="img/v3/toner-swatch.jpg" alt=""><div><span class="eyebrow">The Lift line</span><b>PYDERIN</b></div><u>Explore</u></a><a href="#rejuvuster"><img src="img/v3/rj-swirl.jpg" alt="" style="object-position:40% 50%"><div><span class="eyebrow">The Korean pharmacy line</span><b>REJUVUSTER</b></div><u>Explore</u></a></div>
+  <div class="pair" style="gap:0"><a href="#pyderin" style="background:var(--red);color:#fff;padding:22px 16px 24px"><span style="position:static;opacity:.8">The Lift line</span><b style="display:block;font-size:21px;font-weight:600;letter-spacing:-.02em;margin:8px 0 14px">PYDERIN</b><u style="text-decoration:none;font-size:12px;font-weight:600;background:#fff;color:var(--ink);border-radius:999px;padding:7px 15px">Explore</u></a><a href="#rejuvuster" style="background:var(--ink);color:#fff;padding:22px 16px 24px"><span style="position:static;opacity:.8">The Korean pharmacy line</span><b style="display:block;font-size:21px;font-weight:600;letter-spacing:-.02em;margin:8px 0 14px">REJUVUSTER</b><u style="text-decoration:none;font-size:12px;font-weight:600;background:#fff;color:var(--ink);border-radius:999px;padding:7px 15px">Explore</u></a></div>
   <div class="sec"><div class="end"><img src="img/logo-white.png" alt="PYDERIN" style="height:30px;margin:auto"><small>Korean clinic and pharmacy skincare</small></div></div></div>
   </div>
 </div>
